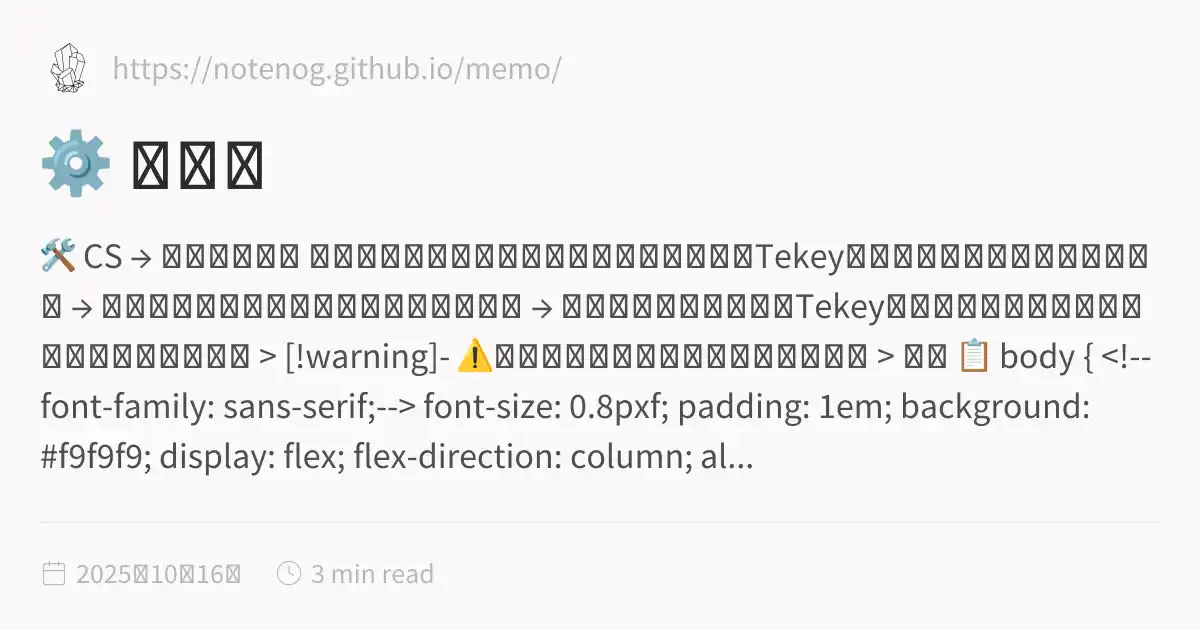
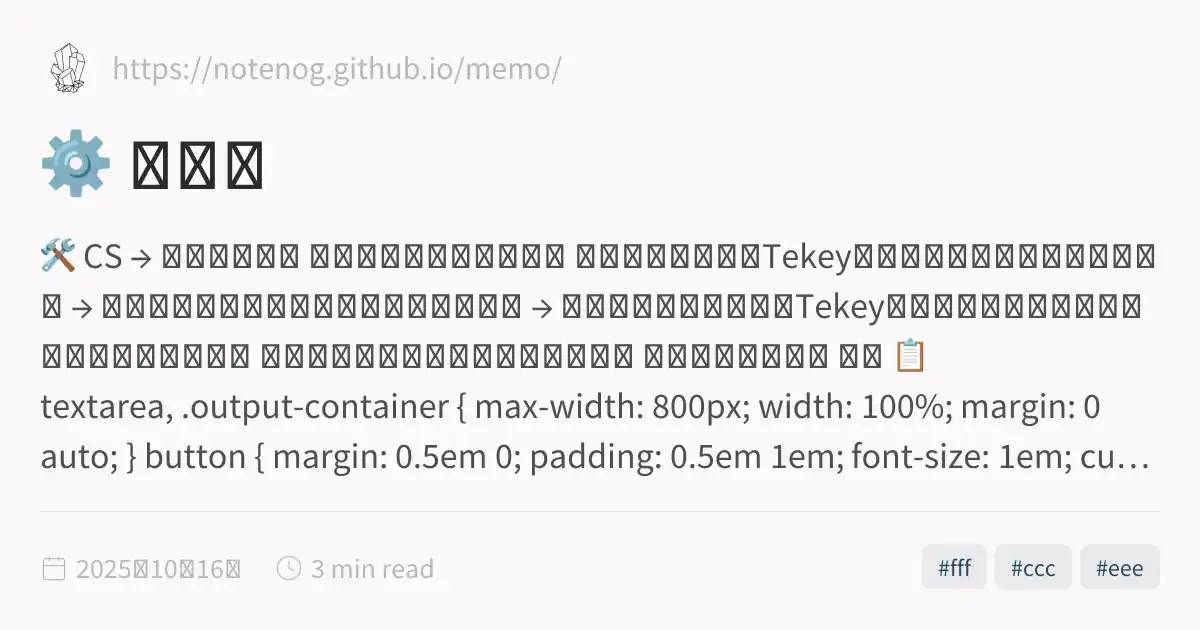
fix: Final push of clean assets with all content emitters disabled

diff --git a/docs/inSANe_old/tool.html b/docs/inSANe_old/tool.html
@@ -1,5 +1,5 @@
 <!DOCTYPE html>
-<html lang="ja" dir="ltr"><head><title>⚙ ツール</title><meta charset="utf-8"/><link rel="preconnect" href="https://fonts.googleapis.com"/><link rel="preconnect" href="https://fonts.gstatic.com"/><link rel="stylesheet" href="https://fonts.googleapis.com/css2?family=Schibsted Grotesk:wght@400;700&amp;family=Source Sans Pro:ital,wght@0,400;0,600;1,400;1,600&amp;family=IBM Plex Mono:wght@400;600&amp;display=swap"/><link rel="preconnect" href="https://cdnjs.cloudflare.com" crossorigin="anonymous"/><meta name="viewport" content="width=device-width, initial-scale=1.0"/><meta name="og:site_name" content="MEMO"/><meta property="og:title" content="⚙ ツール"/><meta property="og:type" content="website"/><meta name="twitter:card" content="summary_large_image"/><meta name="twitter:title" content="⚙ ツール"/><meta name="twitter:description" content="🛠 CS → コマ情報整形 キャラクターシート倉庫さん上部にある「Tekeyフォーマット出力」をクリック → 全文をコピーして下部エリアにペースト → 「変換」をクリックでTekeyのコマ用に整形された文章が整形されます。 > [!warning]- ⚠インセインにしか対応していません > 変換 📋 body { &lt;!--font-family: sans-serif;--> font-size: 0.8pxf; padding: 1em; background: #f9f9f9; display: flex; flex-direction: column; al..."/><meta property="og:description" content="🛠 CS → コマ情報整形 キャラクターシート倉庫さん上部にある「Tekeyフォーマット出力」をクリック → 全文をコピーして下部エリアにペースト → 「変換」をクリックでTekeyのコマ用に整形された文章が整形されます。 > [!warning]- ⚠インセインにしか対応していません > 変換 📋 body { &lt;!--font-family: sans-serif;--> font-size: 0.8pxf; padding: 1em; background: #f9f9f9; display: flex; flex-direction: column; al..."/><meta property="og:image:alt" content="🛠 CS → コマ情報整形 キャラクターシート倉庫さん上部にある「Tekeyフォーマット出力」をクリック → 全文をコピーして下部エリアにペースト → 「変換」をクリックでTekeyのコマ用に整形された文章が整形されます。 > [!warning]- ⚠インセインにしか対応していません > 変換 📋 body { &lt;!--font-family: sans-serif;--> font-size: 0.8pxf; padding: 1em; background: #f9f9f9; display: flex; flex-direction: column; al..."/><meta property="twitter:domain" content="https://notenog.github.io/memo/"/><meta property="og:url" content="https://https//notenog.github.io/memo/inSANe_old/tool"/><meta property="twitter:url" content="https://https//notenog.github.io/memo/inSANe_old/tool"/><link rel="icon" href="../static/icon.png"/><meta name="description" content="🛠 CS → コマ情報整形 キャラクターシート倉庫さん上部にある「Tekeyフォーマット出力」をクリック → 全文をコピーして下部エリアにペースト → 「変換」をクリックでTekeyのコマ用に整形された文章が整形されます。 > [!warning]- ⚠インセインにしか対応していません > 変換 📋 body { &lt;!--font-family: sans-serif;--> font-size: 0.8pxf; padding: 1em; background: #f9f9f9; display: flex; flex-direction: column; al..."/><meta name="generator" content="Quartz"/><link href="../index.css" rel="stylesheet" type="text/css" spa-preserve/><style>.expand-button {
+<html lang="ja" dir="ltr"><head><title>⚙ ツール</title><meta charset="utf-8"/><link rel="preconnect" href="https://fonts.googleapis.com"/><link rel="preconnect" href="https://fonts.gstatic.com"/><link rel="stylesheet" href="https://fonts.googleapis.com/css2?family=Schibsted Grotesk:wght@400;700&amp;family=Source Sans Pro:ital,wght@0,400;0,600;1,400;1,600&amp;family=IBM Plex Mono:wght@400;600&amp;display=swap"/><link rel="preconnect" href="https://cdnjs.cloudflare.com" crossorigin="anonymous"/><meta name="viewport" content="width=device-width, initial-scale=1.0"/><meta name="og:site_name" content="MEMO"/><meta property="og:title" content="⚙ ツール"/><meta property="og:type" content="website"/><meta name="twitter:card" content="summary_large_image"/><meta name="twitter:title" content="⚙ ツール"/><meta name="twitter:description" content="🛠 CS → コマ情報整形 キャラクターシート倉庫 さん上部にある「Tekeyフォーマット出力」をクリック → 全文をコピーして下部エリアにペースト → 「変換」をクリックでTekeyのコマ用に整形された文章が表示されます。 インセインにしか対応していません また、自分用です 変換 📋 textarea, .output-container { max-width: 800px; width: 100%; margin: 0 auto; } button { margin: 0.5em 0; padding: 0.5em 1em; font-size: 1em; cursor: point..."/><meta property="og:description" content="🛠 CS → コマ情報整形 キャラクターシート倉庫 さん上部にある「Tekeyフォーマット出力」をクリック → 全文をコピーして下部エリアにペースト → 「変換」をクリックでTekeyのコマ用に整形された文章が表示されます。 インセインにしか対応していません また、自分用です 変換 📋 textarea, .output-container { max-width: 800px; width: 100%; margin: 0 auto; } button { margin: 0.5em 0; padding: 0.5em 1em; font-size: 1em; cursor: point..."/><meta property="og:image:alt" content="🛠 CS → コマ情報整形 キャラクターシート倉庫 さん上部にある「Tekeyフォーマット出力」をクリック → 全文をコピーして下部エリアにペースト → 「変換」をクリックでTekeyのコマ用に整形された文章が表示されます。 インセインにしか対応していません また、自分用です 変換 📋 textarea, .output-container { max-width: 800px; width: 100%; margin: 0 auto; } button { margin: 0.5em 0; padding: 0.5em 1em; font-size: 1em; cursor: point..."/><meta property="twitter:domain" content="https://notenog.github.io/memo/"/><meta property="og:url" content="https://https//notenog.github.io/memo/inSANe_old/tool"/><meta property="twitter:url" content="https://https//notenog.github.io/memo/inSANe_old/tool"/><link rel="icon" href="../static/icon.png"/><meta name="description" content="🛠 CS → コマ情報整形 キャラクターシート倉庫 さん上部にある「Tekeyフォーマット出力」をクリック → 全文をコピーして下部エリアにペースト → 「変換」をクリックでTekeyのコマ用に整形された文章が表示されます。 インセインにしか対応していません また、自分用です 変換 📋 textarea, .output-container { max-width: 800px; width: 100%; margin: 0 auto; } button { margin: 0.5em 0; padding: 0.5em 1em; font-size: 1em; cursor: point..."/><meta name="generator" content="Quartz"/><link href="../index.css" rel="stylesheet" type="text/css" spa-preserve/><style>.expand-button {
   position: absolute;
   display: flex;
   float: right;
@@ -116,74 +116,70 @@ pre:hover > .expand-button {
   padding: 0 12px;
   font-size: 14px;
 }
[1 lines of base64/hex data omitted]
-<a href="https://character-sheets.appspot.com/" target="_blank" class="external">キャラクターシート倉庫<svg aria-hidden="true" class="external-icon" style="max-width:0.8em;max-height:0.8em;" viewBox="0 0 512 512"><path d="M320 0H288V64h32 82.7L201.4 265.4 178.7 288 224 333.3l22.6-22.6L448 109.3V192v32h64V192 32 0H480 320zM32 32H0V64 480v32H32 456h32V480 352 320H424v32 96H64V96h96 32V32H160 32z"></path></svg></a>さん上部にある「Tekeyフォーマット出力」をクリック　→<br/>
-全文をコピーして下部エリアにペースト　→<br/>
-「変換」をクリックでTekeyのコマ用に整形された文章が整形されます。<br/>
-> [!warning]- ⚠インセインにしか対応していません<br/>
-> 
-<br/>
-<br/>
[1 lines of base64/hex data omitted]
+<hr/>
+<p><a href="https://character-sheets.appspot.com/" class="external">キャラクターシート倉庫<svg aria-hidden="true" class="external-icon" style="max-width:0.8em;max-height:0.8em;" viewBox="0 0 512 512"><path d="M320 0H288V64h32 82.7L201.4 265.4 178.7 288 224 333.3l22.6-22.6L448 109.3V192v32h64V192 32 0H480 320zM32 32H0V64 480v32H32 456h32V480 352 320H424v32 96H64V96h96 32V32H160 32z"></path></svg></a> さん上部にある「Tekeyフォーマット出力」をクリック →<br/>
+全文をコピーして下部エリアにペースト →<br/>
+「変換」をクリックでTekeyのコマ用に整形された文章が表示されます。</p>
+<blockquote class="callout warning" data-callout="warning">
+<div class="callout-title">
+                  <div class="callout-icon"></div>
+                  <div class="callout-title-inner"><p>インセインにしか対応していません </p></div>
+                  
+                </div>
+<div class="callout-content">
+<p>また、自分用です</p>
+</div>
+</blockquote>
 
 <div class="tool-ui">
-<textarea id="input" placeholder="ここにコピペ"></textarea>
-<br/>
-<button onclick="convert()">変換</button>
-<div class="output-container">
-  <button class="copy-button" onclick="copyOutput()">📋</button>
-  <pre id="output"></pre>
+<div class="tool-ui">
+  <textarea id="input" placeholder="ここにコピペ"></textarea>
+  <br/>
+  <button onclick="convert()">変換</button>
+  <div class="output-container">
+    <button class="copy-button" onclick="copyOutput()">📋</button>
+    <pre id="output"></pre>
+  </div>
 </div>
-  <style>
-    body {
-     &lt;!--font-family: sans-serif;-->
-      font-size: 0.8pxf;
-      padding: 1em;
-      background: #f9f9f9;
-     display: flex;
-     flex-direction: column;
-     align-items: center;
-    }
-
-    textarea {
-      width: 80%;
-      height: 300px;
-      font-family: monospace;
-    }
-
-    button {
-      margin: 0.5em 0;
-      padding: 0.5em 1em;
-      font-size: 0.8px;
-      cursor: pointer;
-    }
-
-    .output-container {
-      position: relative;
-      background: #fff;
-      border: 1px solid #ccc;
-      padding: 1em;
-      margin-top: 1em;
-      white-space: pre-wrap;
-      font-family: monospace;
-    }
-
-    .copy-button {
-      position: absolute;
-      top: 0.5em;
-      right: 0.5em;
-      background: #eee;
-      border: none;
-      padding: 0.3em 0.6em;
-      cursor: pointer;
-      font-size: 1em;
-      border-radius: 4px;
-      transition: background 0.2s;
-    }
-
-    .copy-button:hover {
-      background: #ddd;
-    }
-  </style>
+<style>
+textarea,
+.output-container {
+max-width: 800px;
+width: 100%;
+margin: 0 auto;
+}</style>
+<p>button {
+margin: 0.5em 0;
+padding: 0.5em 1em;
+font-size: 1em;
+cursor: pointer;
+}
+.output-container {
+position: relative;
+background: <a href=".././tags/fff" class="tag-link internal alias" data-slug="tags/fff">fff</a>;
+border: 1px solid <a href=".././tags/ccc" class="tag-link internal alias" data-slug="tags/ccc">ccc</a>;
+padding: 1em;
+margin-top: 1em;
+white-space: pre-wrap;
+font-family: monospace;
+}
+.copy-button {
+position: absolute;
+top: 0.5em;
+right: 0.5em;
+background: <a href=".././tags/eee" class="tag-link internal alias" data-slug="tags/eee">eee</a>;
+border: none;
+padding: 0.3em 0.6em;
+cursor: pointer;
+font-size: 1em;
+border-radius: 4px;
+transition: background 0.2s;
+}
+.copy-button:hover {
+background: <a href=".././tags/ddd" class="tag-link internal alias" data-slug="tags/ddd">ddd</a>;
+}
+</p>
 <script>
 
 function convert() {

diff --git a/docs/inSANe_old/index.html b/docs/inSANe_old/index.html
@@ -116,6 +116,6 @@ pre:hover > .expand-button {
   padding: 0 12px;
   font-size: 14px;
 }
[2 lines of base64/hex data omitted]
 </script><script type="module">function f(i,e){if(!i)return;function r(o){o.target===this&&(o.preventDefault(),o.stopPropagation(),e())}function t(o){o.key.startsWith("Esc")&&(o.preventDefault(),e())}i?.addEventListener("click",r),window.addCleanup(()=>i?.removeEventListener("click",r)),document.addEventListener("keydown",t),window.addCleanup(()=>document.removeEventListener("keydown",t))}function y(i){for(;i.firstChild;)i.removeChild(i.firstChild)}var h=class{constructor(e,r){this.container=e;this.content=r;this.setupEventListeners(),this.setupNavigationControls(),this.resetTransform()}isDragging=!1;startPan={x:0,y:0};currentPan={x:0,y:0};scale=1;MIN_SCALE=.5;MAX_SCALE=3;cleanups=[];setupEventListeners(){let e=this.onMouseDown.bind(this),r=this.onMouseMove.bind(this),t=this.onMouseUp.bind(this),o=this.resetTransform.bind(this);this.container.addEventListener("mousedown",e),document.addEventListener("mousemove",r),document.addEventListener("mouseup",t),window.addEventListener("resize",o),this.cleanups.push(()=>this.container.removeEventListener("mousedown",e),()=>document.removeEventListener("mousemove",r),()=>document.removeEventListener("mouseup",t),()=>window.removeEventListener("resize",o))}cleanup(){for(let e of this.cleanups)e()}setupNavigationControls(){let e=document.createElement("div");e.className="mermaid-controls";let r=this.createButton("+",()=>this.zoom(.1)),t=this.createButton("-",()=>this.zoom(-.1)),o=this.createButton("Reset",()=>this.resetTransform());e.appendChild(t),e.appendChild(o),e.appendChild(r),this.container.appendChild(e)}createButton(e,r){let t=document.createElement("button");return t.textContent=e,t.className="mermaid-control-button",t.addEventListener("click",r),window.addCleanup(()=>t.removeEventListener("click",r)),t}onMouseDown(e){e.button===0&&(this.isDragging=!0,this.startPan={x:e.clientX-this.currentPan.x,y:e.clientY-this.currentPan.y},this.container.style.cursor="grabbing")}onMouseMove(e){this.isDragging&&(e.preventDefault(),this.currentPan={x:e.clientX-this.startPan.x,y:e.clientY-this.startPan.y},this.updateTransform())}onMouseUp(){this.isDragging=!1,this.container.style.cursor="grab"}zoom(e){let r=Math.min(Math.max(this.scale+e,this.MIN_SCALE),this.MAX_SCALE),t=this.content.getBoundingClientRect(),o=t.width/2,n=t.height/2,c=r-this.scale;this.currentPan.x-=o*c,this.currentPan.y-=n*c,this.scale=r,this.updateTransform()}updateTransform(){this.content.style.transform=`translate(${this.currentPan.x}px, ${this.currentPan.y}px) scale(${this.scale})`}resetTransform(){this.scale=1;let e=this.content.querySelector("svg");this.currentPan={x:e.getBoundingClientRect().width/2,y:e.getBoundingClientRect().height/2},this.updateTransform()}},C=["--secondary","--tertiary","--gray","--light","--lightgray","--highlight","--dark","--darkgray","--codeFont"],E;document.addEventListener("nav",async()=>{let e=document.querySelector(".center").querySelectorAll("code.mermaid");if(e.length===0)return;E||=await import("https://cdnjs.cloudflare.com/ajax/libs/mermaid/11.4.0/mermaid.esm.min.mjs");let r=E.default,t=new WeakMap;for(let n of e)t.set(n,n.innerText);async function o(){for(let s of e){s.removeAttribute("data-processed");let a=t.get(s);a&&(s.innerHTML=a)}let n=C.reduce((s,a)=>(s[a]=window.getComputedStyle(document.documentElement).getPropertyValue(a),s),{}),c=document.documentElement.getAttribute("saved-theme")==="dark";r.initialize({startOnLoad:!1,securityLevel:"loose",theme:c?"dark":"base",themeVariables:{fontFamily:n["--codeFont"],primaryColor:n["--light"],primaryTextColor:n["--darkgray"],primaryBorderColor:n["--tertiary"],lineColor:n["--darkgray"],secondaryColor:n["--secondary"],tertiaryColor:n["--tertiary"],clusterBkg:n["--light"],edgeLabelBackground:n["--highlight"]}}),await r.run({nodes:e})}await o(),document.addEventListener("themechange",o),window.addCleanup(()=>document.removeEventListener("themechange",o));for(let n=0;n<e.length;n++){let v=function(){let g=l.querySelector("#mermaid-space"),m=l.querySelector(".mermaid-content");if(!m)return;y(m);let w=c.querySelector("svg").cloneNode(!0);m.appendChild(w),l.classList.add("active"),g.style.cursor="grab",u=new h(g,m)},M=function(){l.classList.remove("active"),u?.cleanup(),u=null},c=e[n],s=c.parentElement,a=s.querySelector(".clipboard-button"),d=s.querySelector(".expand-button"),p=window.getComputedStyle(a),L=a.offsetWidth+parseFloat(p.marginLeft||"0")+parseFloat(p.marginRight||"0");d.style.right=`calc(${L}px + 0.3rem)`,s.prepend(d);let l=s.querySelector("#mermaid-container");if(!l)return;let u=null;d.addEventListener("click",v),f(l,M),window.addCleanup(()=>{u?.cleanup(),d.removeEventListener("click",v)})}});
 </script><script src="https://cdn.jsdelivr.net/npm/katex@0.16.11/dist/contrib/copy-tex.min.js" type="application/javascript"></script><script src="../postscript.js" type="module"></script></html>

diff --git a/content/inSANe_old/tool.md b/content/inSANe_old/tool.md
@@ -2,77 +2,71 @@
 title: "⚙ ツール"
 draft: false
 ---
-<h2>🛠 CS → コマ情報整形</h2><br>
-<a href="https://character-sheets.appspot.com/" target="_blank">キャラクターシート倉庫</a>さん上部にある「Tekeyフォーマット出力」をクリック　→<br>
-全文をコピーして下部エリアにペースト　→<br>
-「変換」をクリックでTekeyのコマ用に整形された文章が整形されます。<br>
-> [!warning]- ⚠インセインにしか対応していません<br>
-<br>
-<br>
+
+## 🛠 CS → コマ情報整形
+___
+
+[キャラクターシート倉庫](https://character-sheets.appspot.com/) さん上部にある「Tekeyフォーマット出力」をクリック →  
+全文をコピーして下部エリアにペースト →  
+「変換」をクリックでTekeyのコマ用に整形された文章が表示されます。
+
+> [!warning]  インセインにしか対応していません  
+> また、自分用です
+
 
 <!-- ここからHTML UI部分 -->
 <div class="tool-ui">
+<div class="tool-ui">
+  <textarea id="input" placeholder="ここにコピペ"></textarea>
+  <br>
+  <button onclick="convert()">変換</button>
 
-<textarea id="input" placeholder="ここにコピペ"></textarea>
-<br>
-<button onclick="convert()">変換</button>
-
-<div class="output-container">
-  <button class="copy-button" onclick="copyOutput()">📋</button>
-  <pre id="output"></pre>
+  <div class="output-container">
+    <button class="copy-button" onclick="copyOutput()">📋</button>
+    <pre id="output"></pre>
+  </div>
 </div>
+<style>
 
-  <style>
-    body {
-     <!--font-family: sans-serif;-->
-      font-size: 0.8pxf;
-      padding: 1em;
-      background: #f9f9f9;
-     display: flex;
-     flex-direction: column;
-     align-items: center;
-    }
+  textarea,
+  .output-container {
+    max-width: 800px;
+    width: 100%;
+    margin: 0 auto;
+  }
 
-    textarea {
-      width: 80%;
-      height: 300px;
-      font-family: monospace;
-    }
+  button {
+    margin: 0.5em 0;
+    padding: 0.5em 1em;
+    font-size: 1em;
+    cursor: pointer;
+  }
+  .output-container {
+    position: relative;
+    background: #fff;
+    border: 1px solid #ccc;
+    padding: 1em;
+    margin-top: 1em;
+    white-space: pre-wrap;
+    font-family: monospace;
+  }
+  .copy-button {
+    position: absolute;
+    top: 0.5em;
+    right: 0.5em;
+    background: #eee;
+    border: none;
+    padding: 0.3em 0.6em;
+    cursor: pointer;
+    font-size: 1em;
+    border-radius: 4px;
+    transition: background 0.2s;
+  }
+  .copy-button:hover {
+    background: #ddd;
+  }
+</style>
 
-    button {
-      margin: 0.5em 0;
-      padding: 0.5em 1em;
-      font-size: 0.8px;
-      cursor: pointer;
-    }
-
-    .output-container {
-      position: relative;
-      background: #fff;
-      border: 1px solid #ccc;
-      padding: 1em;
-      margin-top: 1em;
-      white-space: pre-wrap;
-      font-family: monospace;
-    }
-
-    .copy-button {
-      position: absolute;
-      top: 0.5em;
-      right: 0.5em;
-      background: #eee;
-      border: none;
-      padding: 0.3em 0.6em;
-      cursor: pointer;
-      font-size: 1em;
-      border-radius: 4px;
-      transition: background 0.2s;
-    }
-
-    .copy-button:hover {
-      background: #ddd;
-    }
-  </style>
 
 <script>
 
